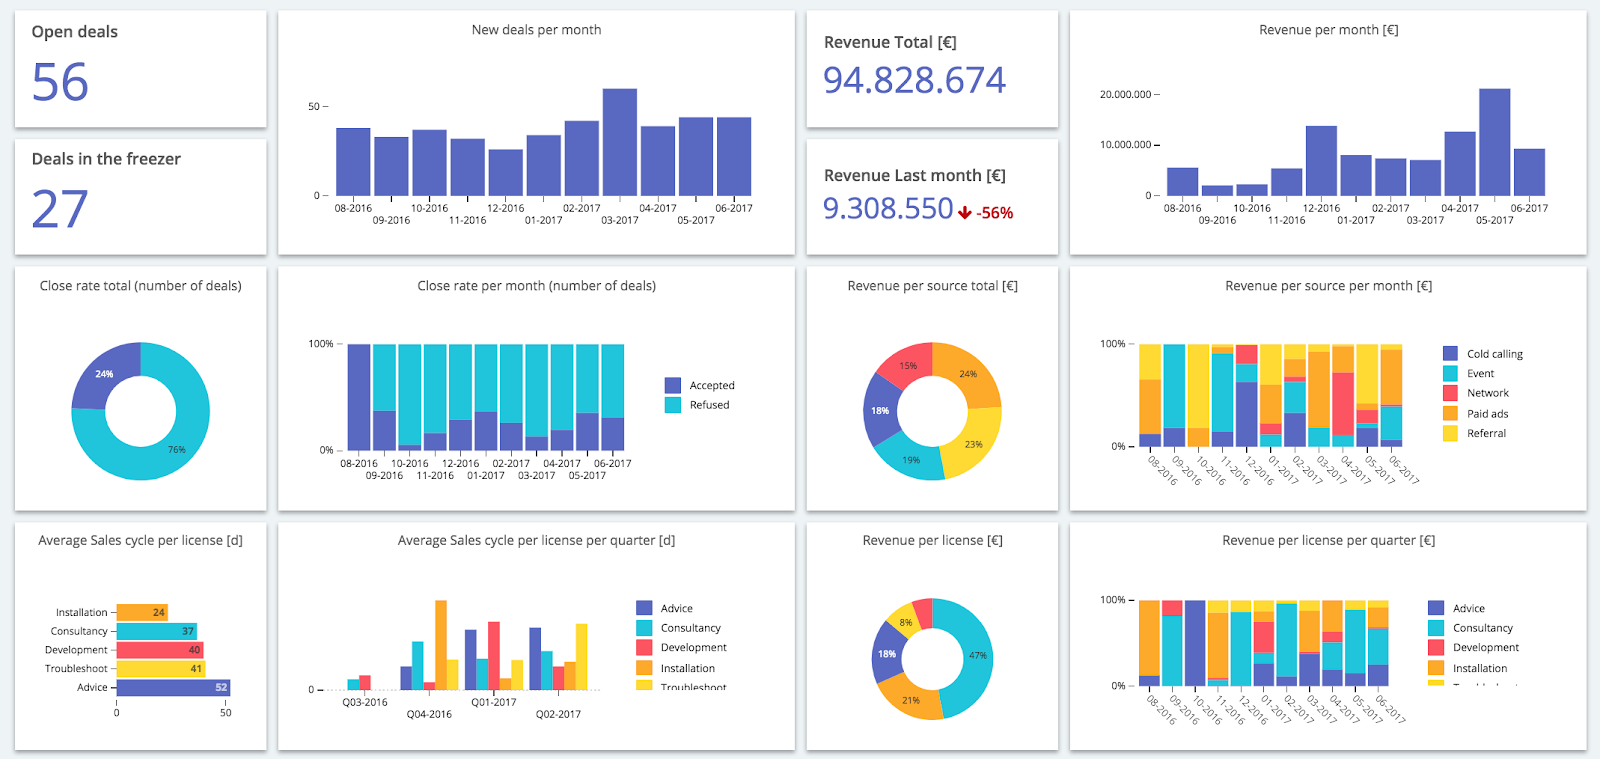
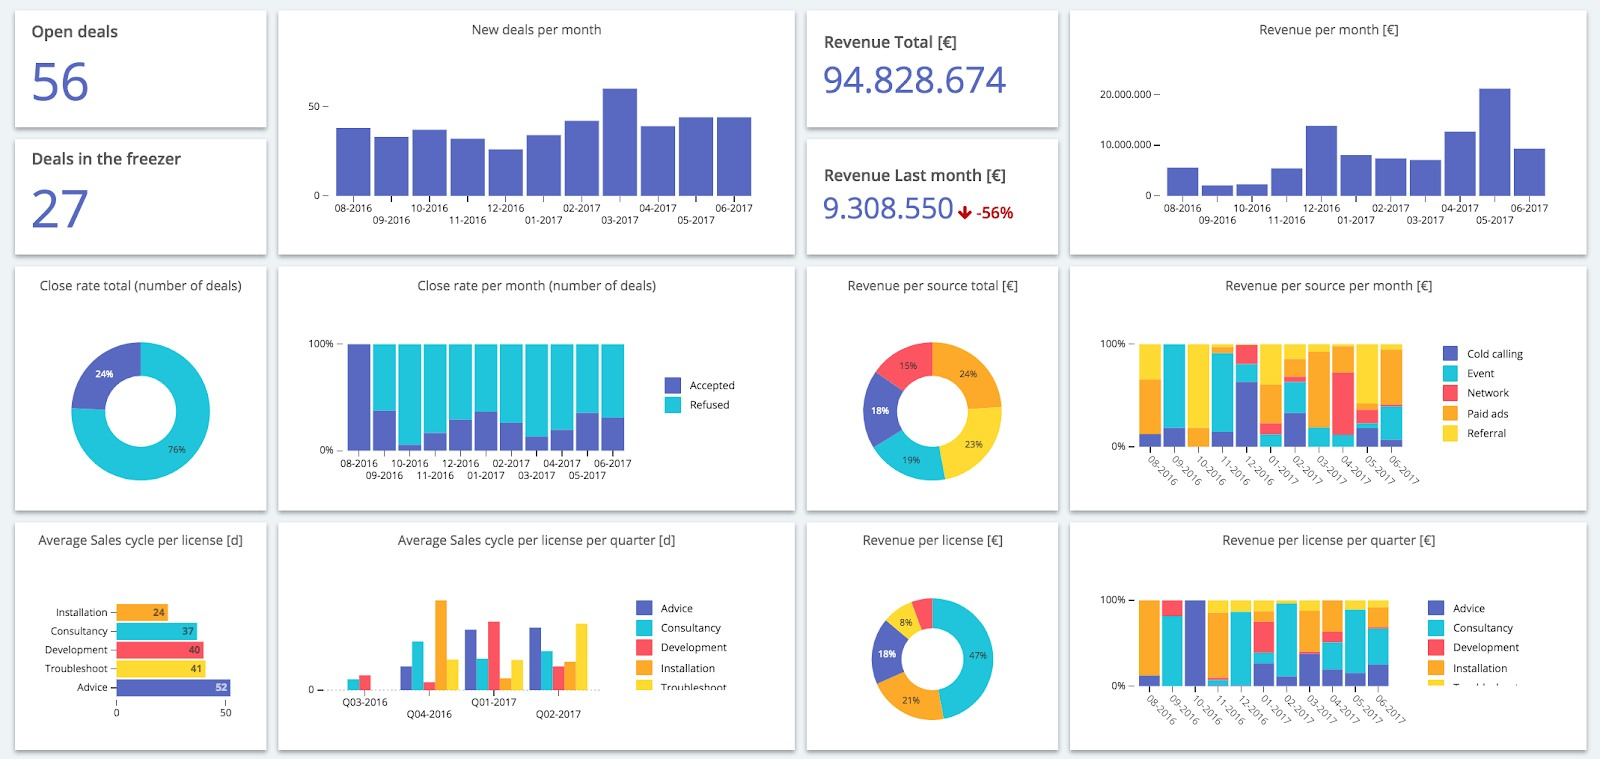
feat: improve SEO and structured data

diff --git a/project-it-support-case-study.html b/project-it-support-case-study.html
@@ -4,7 +4,7 @@
   <meta charset="UTF-8" />
   <meta name="viewport" content="width=device-width, initial-scale=1.0" />
   <title>IT Support Troubleshooting Case Study | Pacifique Fashaho</title>
-  <meta name="description" content="IT support case study by Pacifique Fashaho covering Windows setup, hardware and software troubleshooting, printer support, network checks, validation, and documentation." />
+  <meta name="description" content="Practical IT support case study covering Windows setup, hardware and software troubleshooting, printers, network checks, validation, and documentation." />
   <meta name="keywords" content="Pacifique Fashaho, IT Support, Help Desk, Windows Troubleshooting, Printer Support, Network Troubleshooting, Workstation Setup" />
   <meta name="author" content="Pacifique Fashaho" />
   <meta name="robots" content="index, follow" />
@@ -15,18 +15,18 @@
   <link rel="stylesheet" href="assets/css/style.css" />
   <link rel="stylesheet" href="assets/css/pages.css" />
   <meta property="og:title" content="IT Support Troubleshooting Case Study | Pacifique Fashaho" />
-  <meta property="og:description" content="A practical IT support case study covering Windows setup, troubleshooting, printers, network connectivity, validation, and documentation." />
-  <meta property="og:image" content="https://pacifiquefashaho.github.io/assets/images/projects/it-support-workflow.svg" />
-  <meta property="og:image:alt" content="IT support workstation setup and troubleshooting workflow" />
+  <meta property="og:description" content="Practical IT support case study covering Windows setup, hardware and software troubleshooting, printers, network checks, validation, and documentation." />
+  <meta property="og:image" content="https://pacifiquefashaho.github.io/assets/images/ui/og-image.png" />
+  <meta property="og:image:alt" content="Pacifique Fashaho IT support portfolio preview" />
   <meta property="og:url" content="https://pacifiquefashaho.github.io/project-it-support-case-study.html" />
   <meta property="og:type" content="article" />
   <meta property="og:site_name" content="Pacifique Fashaho Portfolio" />
   <meta property="og:locale" content="en_US" />
   <meta name="twitter:card" content="summary_large_image" />
   <meta name="twitter:title" content="IT Support Troubleshooting Case Study | Pacifique Fashaho" />
-  <meta name="twitter:description" content="Windows setup, troubleshooting, printer support, network checks, validation, and technical documentation." />
-  <meta name="twitter:image" content="https://pacifiquefashaho.github.io/assets/images/projects/it-support-workflow.svg" />
-  <meta name="twitter:image:alt" content="IT support workstation setup and troubleshooting workflow" />
+  <meta name="twitter:description" content="Practical IT support case study covering Windows setup, hardware and software troubleshooting, printers, network checks, validation, and documentation." />
+  <meta name="twitter:image" content="https://pacifiquefashaho.github.io/assets/images/ui/og-image.png" />
+  <meta name="twitter:image:alt" content="Pacifique Fashaho IT support portfolio preview" />
   <script>
     (function () {
       document.documentElement.classList.add("js");
@@ -43,7 +43,7 @@
     "name": "Workstation Setup and Troubleshooting Case Study",
     "url": "https://pacifiquefashaho.github.io/project-it-support-case-study.html",
     "image": "https://pacifiquefashaho.github.io/assets/images/projects/it-support-workflow.svg",
-    "description": "A practical IT support case study covering Windows workstation setup, hardware and software troubleshooting, printer support, network connectivity, validation tests, and technical documentation.",
+    "description": "Practical IT support case study covering Windows setup, hardware and software troubleshooting, printers, network checks, validation, and documentation.",
     "creator": {"@type": "Person", "name": "Pacifique Fashaho", "url": "https://pacifiquefashaho.github.io/"},
     "keywords": ["IT support", "Windows troubleshooting", "workstation setup", "printer support", "network troubleshooting", "help desk"]
   }

diff --git a/projects.html b/projects.html
@@ -5,16 +5,16 @@
 
   <meta name="viewport" content="width=device-width, initial-scale=1.0" />
 
-  <title>IT Support &amp; Data Analytics Projects | Pacifique Fashaho</title>
+  <title>IT Support Projects &amp; Technical Portfolio | Pacifique Fashaho</title>
 
   <meta
     name="description"
-    content="Explore Pacifique Fashaho’s practical IT support and data analytics projects: troubleshooting workflows, Excel dashboards, data cleaning, field data, and web development."
+    content="Explore Pacifique Fashaho’s IT support projects in Windows troubleshooting, printers, networks, and user support, with complementary data and web work."
   />
 
   <meta
     name="keywords"
-    content="Pacifique Fashaho projects, IT support, technical support, data analyst, Excel dashboard, troubleshooting, KoBoToolbox, ODK, Python, SQL, GitHub Pages"
+    content="Pacifique Fashaho projects, IT support projects, Windows troubleshooting, printer support, network checks, user support, Excel dashboard, data cleaning, KoBoToolbox, GitHub Pages"
   />
 
   <meta name="author" content="Pacifique Fashaho" />
@@ -32,10 +32,10 @@
   <link rel="stylesheet" href="assets/css/pages.css" />
 
   <!-- Open Graph -->
-  <meta property="og:title" content="IT Support &amp; Data Analytics Projects | Pacifique Fashaho" />
+  <meta property="og:title" content="IT Support Projects &amp; Technical Portfolio | Pacifique Fashaho" />
   <meta
     property="og:description"
-    content="Practical IT support, troubleshooting, data analytics, dashboard, field data, and web projects by Pacifique Fashaho."
+    content="Explore Pacifique Fashaho’s IT support projects in Windows troubleshooting, printers, networks, and user support, with complementary data and web work."
   />
   <meta property="og:image" content="https://pacifiquefashaho.github.io/assets/images/ui/og-image.png" />
   <meta property="og:image:alt" content="Pacifique Fashaho projects page preview" />
@@ -46,10 +46,10 @@
 
   <!-- Twitter Card -->
   <meta name="twitter:card" content="summary_large_image" />
-  <meta name="twitter:title" content="IT Support &amp; Data Analytics Projects | Pacifique Fashaho" />
+  <meta name="twitter:title" content="IT Support Projects &amp; Technical Portfolio | Pacifique Fashaho" />
   <meta
     name="twitter:description"
-    content="Explore practical IT support, troubleshooting, data analytics, dashboard, field data, and web projects."
+    content="Explore Pacifique Fashaho’s IT support projects in Windows troubleshooting, printers, networks, and user support, with complementary data and web work."
   />
   <meta name="twitter:image" content="https://pacifiquefashaho.github.io/assets/images/ui/og-image.png" />
   <meta name="twitter:image:alt" content="Pacifique Fashaho projects page preview" />
@@ -74,9 +74,9 @@
   {
     "@context": "https://schema.org",
     "@type": "CollectionPage",
-    "name": "IT Support & Data Analytics Projects | Pacifique Fashaho",
+    "name": "IT Support Projects & Technical Portfolio | Pacifique Fashaho",
     "url": "https://pacifiquefashaho.github.io/projects.html",
-    "description": "A project portfolio presenting Pacifique Fashaho\u2019s practical IT support, troubleshooting, data analytics, dashboard, field data, and web development work.",
+    "description": "Explore Pacifique Fashaho\u2019s IT support projects in Windows troubleshooting, printers, networks, and user support, with complementary data and web work.",
     "isPartOf": {
       "@type": "WebSite",
       "name": "Pacifique Fashaho Portfolio",

diff --git a/certifications.html b/certifications.html
@@ -5,11 +5,11 @@
 
   <meta name="viewport" content="width=device-width, initial-scale=1.0" />
 
-  <title>Certifications | Pacifique Fashaho</title>
+  <title>IT Support Certifications | Pacifique Fashaho</title>
 
   <meta
     name="description"
-    content="Verified IT support, networking, office computing, data, Python, and field-work credentials supporting Pacifique Fashaho's technical support profile."
+    content="Verified IT support, networking, and office-computing credentials, with complementary learning in data, Python, and field tools."
   />
 
   <meta
@@ -32,10 +32,10 @@
   <link rel="stylesheet" href="assets/css/pages.css" />
 
   <!-- Open Graph -->
-  <meta property="og:title" content="Certifications | Pacifique Fashaho" />
+  <meta property="og:title" content="IT Support Certifications | Pacifique Fashaho" />
   <meta
     property="og:description"
-    content="Verified IT support, networking, office computing, data, Python, and field-work credentials."
+    content="Verified IT support, networking, and office-computing credentials, with complementary learning in data, Python, and field tools."
   />
   <meta property="og:image" content="https://pacifiquefashaho.github.io/assets/images/ui/og-image.png" />
   <meta property="og:image:alt" content="Pacifique Fashaho certifications page preview" />
@@ -46,10 +46,10 @@
 
   <!-- Twitter Card -->
   <meta name="twitter:card" content="summary_large_image" />
-  <meta name="twitter:title" content="Certifications | Pacifique Fashaho" />
+  <meta name="twitter:title" content="IT Support Certifications | Pacifique Fashaho" />
   <meta
     name="twitter:description"
-    content="Verified credentials supporting IT support, networking, office computing, data, Python, and field work."
+    content="Verified IT support, networking, and office-computing credentials, with complementary learning in data, Python, and field tools."
   />
   <meta name="twitter:image" content="https://pacifiquefashaho.github.io/assets/images/ui/og-image.png" />
   <meta name="twitter:image:alt" content="Pacifique Fashaho certifications page preview" />
@@ -74,9 +74,9 @@
   {
     "@context": "https://schema.org",
     "@type": "CollectionPage",
-    "name": "Certifications | Pacifique Fashaho",
+    "name": "IT Support Certifications | Pacifique Fashaho",
     "url": "https://pacifiquefashaho.github.io/certifications.html",
-    "description": "Verified credentials supporting Pacifique Fashaho's IT support profile, with complementary learning in networking, office computing, data, Python, and field work.",
+    "description": "Verified IT support, networking, and office-computing credentials, with complementary learning in data, Python, and field tools.",
     "isPartOf": {
       "@type": "WebSite",
       "name": "Pacifique Fashaho Portfolio",

diff --git a/fr/index.html b/fr/index.html
@@ -8,7 +8,7 @@
   <title>Pacifique Fashaho | Technicien en support informatique à Goma</title>
   <meta
     name="description"
-    content="Technicien en support informatique à Goma, en RD Congo, spécialisé dans le dépannage Windows, l’assistance aux utilisateurs, les imprimantes, la connectivité et la configuration des postes."
+    content="Technicien en support informatique à Goma, en RD Congo : dépannage Windows, assistance aux utilisateurs, imprimantes, connectivité et configuration de postes."
   />
 
   <meta
@@ -39,7 +39,7 @@
   <meta property="og:title" content="Pacifique Fashaho | Technicien en support informatique à Goma" />
   <meta
     property="og:description"
-    content="Découvrez les travaux pratiques de Pacifique Fashaho en dépannage Windows, assistance aux utilisateurs, support des imprimantes et de la connectivité, et configuration des postes."
+    content="Technicien en support informatique à Goma, en RD Congo : dépannage Windows, assistance aux utilisateurs, imprimantes, connectivité et configuration de postes."
   />
   <meta property="og:image" content="https://pacifiquefashaho.github.io/assets/images/ui/og-image.png" />
   <meta property="og:image:alt" content="Aperçu du portfolio de Pacifique Fashaho" />
@@ -54,7 +54,7 @@
   <meta name="twitter:title" content="Pacifique Fashaho | Technicien en support informatique à Goma" />
   <meta
     name="twitter:description"
-    content="Portfolio de support informatique : dépannage Windows, assistance aux utilisateurs, support des imprimantes et de la connectivité, maintenance et configuration des postes."
+    content="Technicien en support informatique à Goma, en RD Congo : dépannage Windows, assistance aux utilisateurs, imprimantes, connectivité et configuration de postes."
   />
   <meta name="twitter:image" content="https://pacifiquefashaho.github.io/assets/images/ui/og-image.png" />
   <meta name="twitter:image:alt" content="Aperçu du portfolio de Pacifique Fashaho" />
@@ -86,7 +86,7 @@
         "url": "https://pacifiquefashaho.github.io/fr/",
         "image": "https://pacifiquefashaho.github.io/assets/images/profile/pacifique-profile.webp",
         "jobTitle": "Technicien en support informatique",
-        "description": "Technicien en support informatique bas\u00e9 \u00e0 Goma, en RD Congo, assurant le d\u00e9pannage Windows, l\u2019assistance aux utilisateurs, le support des imprimantes et de la connectivit\u00e9, ainsi que la configuration des postes.",
+        "description": "Technicien en support informatique \u00e0 Goma, en RD Congo : d\u00e9pannage Windows, assistance aux utilisateurs, imprimantes, connectivit\u00e9 et configuration de postes.",
         "email": "mailto:pacifiquefashaho04@gmail.com",
         "telephone": "+243859477758",
         "address": {

diff --git a/project-data-cleaning-case-study.html b/project-data-cleaning-case-study.html
@@ -8,7 +8,7 @@
 
   <meta
     name="description"
-    content="A practical data cleaning and reporting case study by Pacifique Fashaho covering missing values, duplicates, inconsistent formats, validation checks, and insight communication."
+    content="Practical data cleaning case study covering missing values, duplicates, format consistency, validation checks, reporting, and clear findings."
   />
 
   <meta
@@ -34,7 +34,7 @@
   <meta property="og:title" content="Data Cleaning and Reporting Case Study | Pacifique Fashaho" />
   <meta
     property="og:description"
-    content="A practical workflow for identifying data-quality problems, cleaning records, validating results, preparing analysis, and communicating findings."
+    content="Practical data cleaning case study covering missing values, duplicates, format consistency, validation checks, reporting, and clear findings."
   />
   <meta property="og:image" content="https://pacifiquefashaho.github.io/assets/images/ui/og-image.png" />
   <meta property="og:image:alt" content="Pacifique Fashaho data analytics portfolio preview" />
@@ -48,7 +48,7 @@
   <meta name="twitter:title" content="Data Cleaning and Reporting Case Study | Pacifique Fashaho" />
   <meta
     name="twitter:description"
-    content="A structured data-quality workflow covering duplicates, missing values, formats, validation, reporting, and decision-ready outputs."
+    content="Practical data cleaning case study covering missing values, duplicates, format consistency, validation checks, reporting, and clear findings."
   />
   <meta name="twitter:image" content="https://pacifiquefashaho.github.io/assets/images/ui/og-image.png" />
   <meta name="twitter:image:alt" content="Pacifique Fashaho data analytics portfolio preview" />
@@ -76,7 +76,7 @@
     "name": "Data Cleaning and Reporting Case Study",
     "url": "https://pacifiquefashaho.github.io/project-data-cleaning-case-study.html",
     "image": "https://pacifiquefashaho.github.io/assets/images/ui/og-image.png",
-    "description": "A representative practice case study showing a structured workflow for data profiling, cleaning, validation, analysis preparation, and reporting.",
+    "description": "A representative practice case study covering data profiling, cleaning, validation, analysis preparation, reporting, and clear findings.",
     "creator": {
       "@type": "Person",
       "name": "Pacifique Fashaho",

diff --git a/project-sales-dashboard.html b/project-sales-dashboard.html
@@ -9,7 +9,7 @@
 
   <meta
     name="description"
-    content="Sales Performance Dashboard case study by Pacifique Fashaho. A practical Excel dashboard project showing sales KPIs, trends, reporting structure, and business insight presentation."
+    content="Practical Excel dashboard case study showing sales KPIs, trends, reporting structure, dashboard design, and clear performance insights."
   />
 
   <meta
@@ -35,7 +35,7 @@
   <meta property="og:title" content="Sales Performance Dashboard Case Study | Pacifique Fashaho" />
   <meta
     property="og:description"
-    content="A practical Excel dashboard case study showing sales performance KPIs, trends, dashboard design, and reporting logic."
+    content="Practical Excel dashboard case study showing sales KPIs, trends, reporting structure, dashboard design, and clear performance insights."
   />
   <meta property="og:image" content="https://pacifiquefashaho.github.io/assets/images/projects/sales-dashboard-preview.jpg" />
   <meta property="og:image:alt" content="Sales Performance Dashboard preview" />
@@ -49,7 +49,7 @@
   <meta name="twitter:title" content="Sales Performance Dashboard Case Study | Pacifique Fashaho" />
   <meta
     name="twitter:description"
-    content="Excel dashboard case study focused on sales KPIs, trends, reporting, and business insight communication."
+    content="Practical Excel dashboard case study showing sales KPIs, trends, reporting structure, dashboard design, and clear performance insights."
   />
   <meta name="twitter:image" content="https://pacifiquefashaho.github.io/assets/images/projects/sales-dashboard-preview.jpg" />
   <meta name="twitter:image:alt" content="Sales Performance Dashboard preview" />
@@ -77,7 +77,7 @@
     "name": "Sales Performance Dashboard",
     "url": "https://pacifiquefashaho.github.io/project-sales-dashboard.html",
     "image": "https://pacifiquefashaho.github.io/assets/images/projects/sales-dashboard-preview.jpg",
-    "description": "A practical Excel dashboard project designed to summarize sales KPIs, trends, and performance insights.",
+    "description": "Practical Excel dashboard case study showing sales KPIs, trends, reporting structure, dashboard design, and clear performance insights.",
     "creator": {
       "@type": "Person",
       "name": "Pacifique Fashaho",
